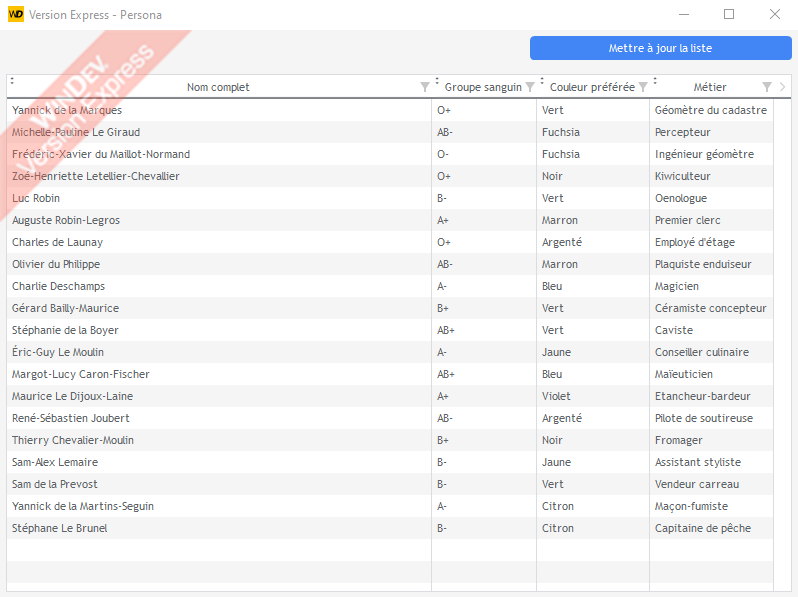
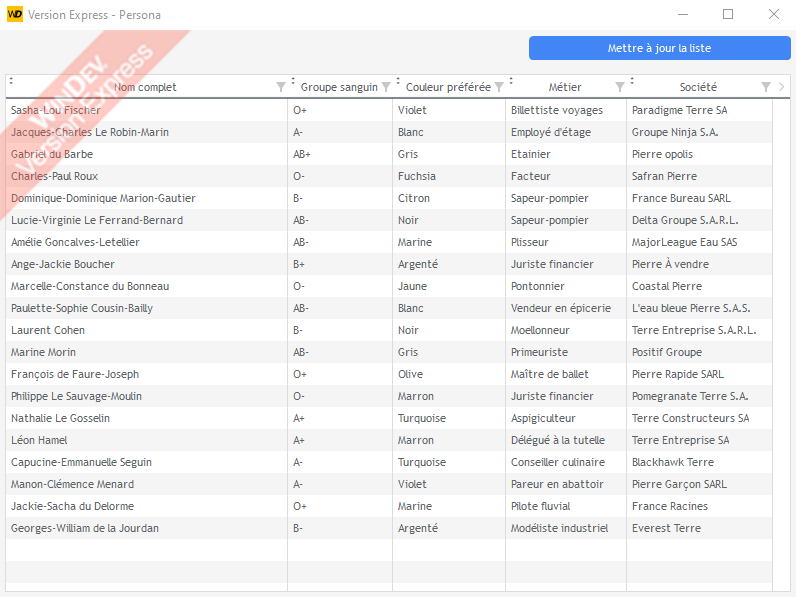
MAJ README

diff --git a/README.md b/README.md
@@ -20,22 +20,25 @@ Exemple (pour générer des [personas](https://fr.wikipedia.org/wiki/Persona)) :
 clFaussaire est un Faussaire
 
 stPersonne est une Structure
-	nomComplet est une chaîne
-	groupeSanguin est une chaîne
-	couleurPréférée est une chaîne
-	métierPratiqué est une chaîne
+    nomComplet est une chaîne
+    groupeSanguin est une chaîne
+    couleurPréférée	est une chaîne
+    métierPratiqué est une chaîne
+    société est une chaîne
 FIN
 
 POUR i = 1 À 20
 
-	personneGénérée est une stPersonne
+    personneGénérée est une stPersonne
 
-	personneGénérée.nomComplet = clFaussaire.Personne.nomComplet("", Faux)
-	personneGénérée.groupeSanguin = clFaussaire.Sang.groupeSanguin()
-	personneGénérée.couleurPréférée = clFaussaire.Couleur.couleur(Faux)
-	personneGénérée.métierPratiqué = clFaussaire.Entreprise.métier
+    personneGénérée est une stPersonne
+    personneGénérée.nomComplet = clFaussaire.Personne.nomComplet("", Faux)
+    personneGénérée.groupeSanguin = clFaussaire.Sang.groupeSanguin()
+    personneGénérée.couleurPréférée = clFaussaire.Couleur.couleur(Faux)
+    personneGénérée.métierPratiqué = clFaussaire.Entreprise.métier
+    personneGénérée.société = clFaussaire.Entreprise.nomSociété()
 
-	tabListePersonnes.Ajoute(personneGénérée)
+    tabListePersonnes.Ajoute(personneGénérée)
 
 FIN
 ```
